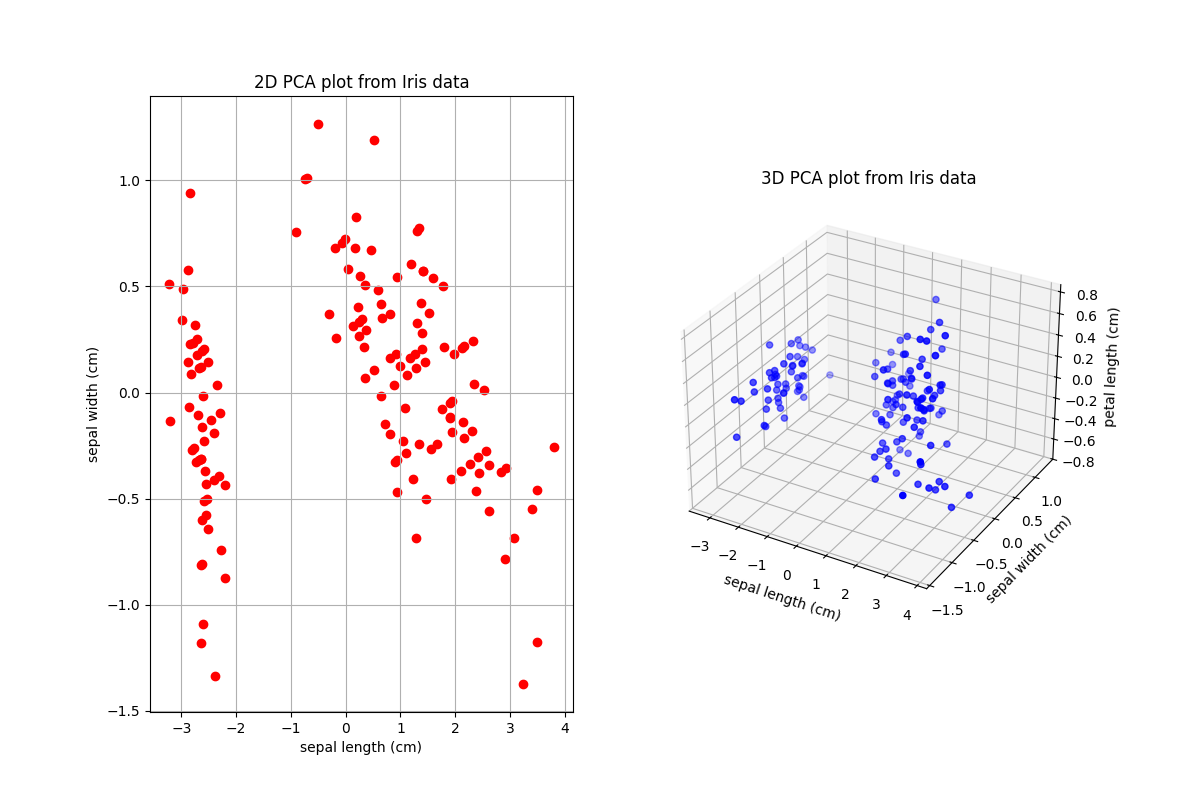
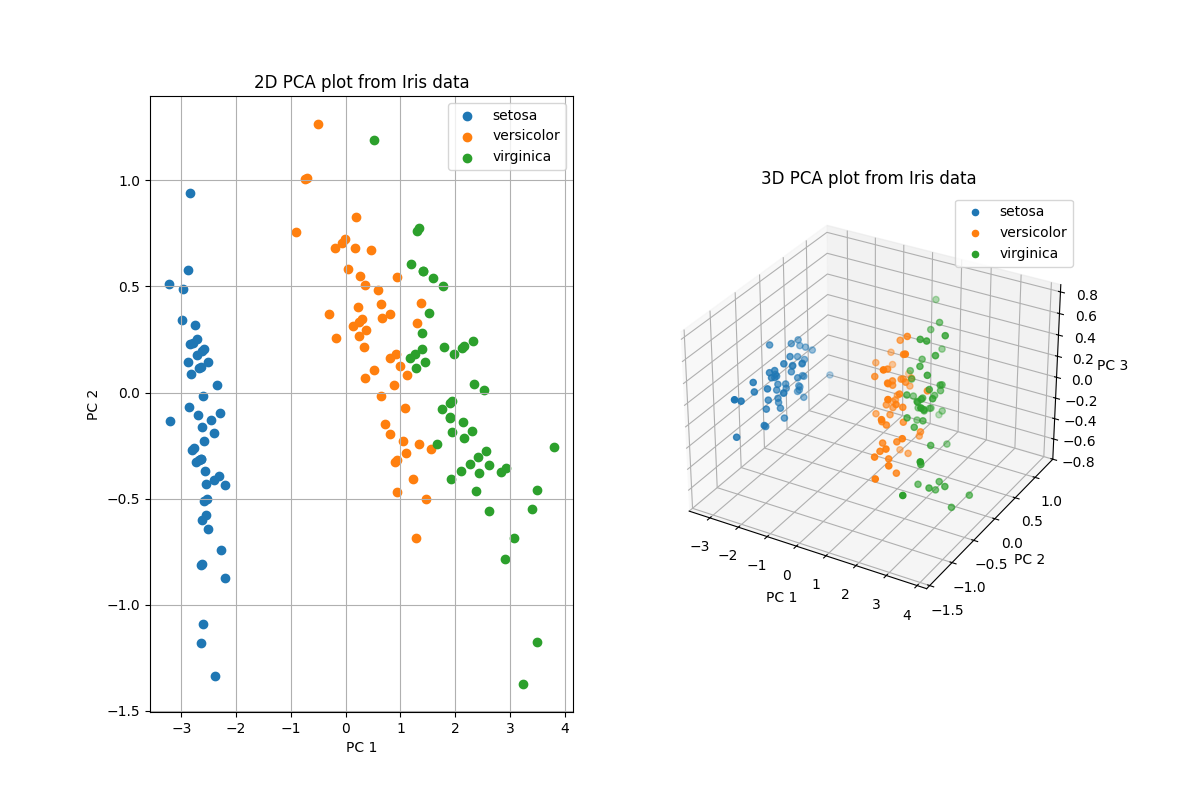
day 5: 4D to 2D projection with PCA

diff --git a/phase_1_math/week_3/d5_pca_cluster.py b/phase_1_math/week_3/d5_pca_cluster.py
@@ -1,13 +1,14 @@
 import numpy as np
 import math
 from sklearn.datasets import load_iris
+from sklearn.decomposition import PCA
 import matplotlib.pyplot as plt
 
 # we can calculate PCA via eigendecomposition.
 # we should first center the data by taking mean of features and subtracting it 
 # from the original data matrix.
 
-def plot_pca(T, feature_names: list, filename="iris_pca_2D_3D.png"):
+def plot_pca(T, data, filename="iris_pca_2D_3D.png"):
     fig = plt.figure(figsize=(12, 8))
 
     # each column of the matrix T is a principal component
@@ -16,22 +17,38 @@ def plot_pca(T, feature_names: list, filename="iris_pca_2D_3D.png"):
     pc2 = T[:, 1]
     pc3 = T[:, 2]
 
-    ax1.scatter(pc1, pc2, color='red', marker='o')
+    target_names = ['setosa', 'versicolor', 'virginica']
+    for k in range(len(target_names)):
+        mask = data.target == k
+        ax1.scatter(T[mask, 0], T[mask, 1], label=target_names[k], marker='o')
+
+    # ax1.scatter(pc1, pc2, c=data.target, cmap='viridis', marker='o')
+    ax1.legend()
     ax1.set_title("2D PCA plot from Iris data")
-    ax1.set_xlabel(feature_names[0])
-    ax1.set_ylabel(feature_names[1])
+    ax1.set_xlabel('PC 1')
+    ax1.set_ylabel('PC 2')
     ax1.grid(True)
     
     ax2 = fig.add_subplot(1, 2, 2, projection='3d')
 
-    ax2.scatter(pc1, pc2, pc3, color='blue', marker='o')
+    for k in range(len(target_names)):
+        mask = data.target == k
+        ax2.scatter(T[mask, 0], T[mask, 1], T[mask, 2], label=target_names[k], marker='o')
+    
+    ax2.legend()
     ax2.set_title("3D PCA plot from Iris data")
-    ax2.set_xlabel(feature_names[0])
-    ax2.set_ylabel(feature_names[1])
-    ax2.set_zlabel(feature_names[2])
+    ax2.set_xlabel('PC 1')
+    ax2.set_ylabel('PC 2')
+    ax2.set_zlabel('PC 3')
     plt.savefig(filename)
 
-def PCA(data):
+def sci_pca(data):
+    pca = PCA(n_components=3)
+    X_pca = pca.fit_transform(data.data)
+    plot_pca(X_pca, data, filename="iris_pca_sklearn.png")
+
+
+def myPCA(data):
     # first we compute the mean-centered matrix
     # we need to take the avg of all samples across a feature, so we should parse columns
     X = data.data
@@ -78,7 +95,10 @@ def PCA(data):
 
     if np.allclose(np.abs(T), np.abs(verify_T)):
         print(f"SVD T Verified values!!!")
-        plot_pca(T, data.feature_names)
+        plot_pca(T, data)
+        
+        # verify with sklearn pca
+        sci_pca(data)
     else:
         print(f"NOT verified!!!")
 
@@ -87,7 +107,7 @@ def test():
     # grab the iris dataset
     data = load_iris()
     print(data.feature_names)
-    PCA(data)
+    myPCA(data)
 
 
 if __name__ == "__main__":

diff --git a/phase_1_math/study_journal.md b/phase_1_math/study_journal.md
@@ -274,5 +274,9 @@ From this, we can compute the *Principal Components* $T$ by taking the SVD of $B
 
 We can also express the variance in the data by our eigenvalues. $\lambda = \sigma^{2}$. $\frac{\sum_{k=1}^{r} \lambda_{k}}{\sum_{k=1}^{n} \lambda_n}$ for $r$ modes => this gives us how many modes can be used to express the amount of variance captured by my first $r$ eigenvalues to express the variance in the data $X$. This can help us decide how many principal components we would want to keep to express x% of the variance in our data.
 
+### Friday 6/25
+
+Accidentally did day 5 for day 4 ... whoops!!!
+
 
 
